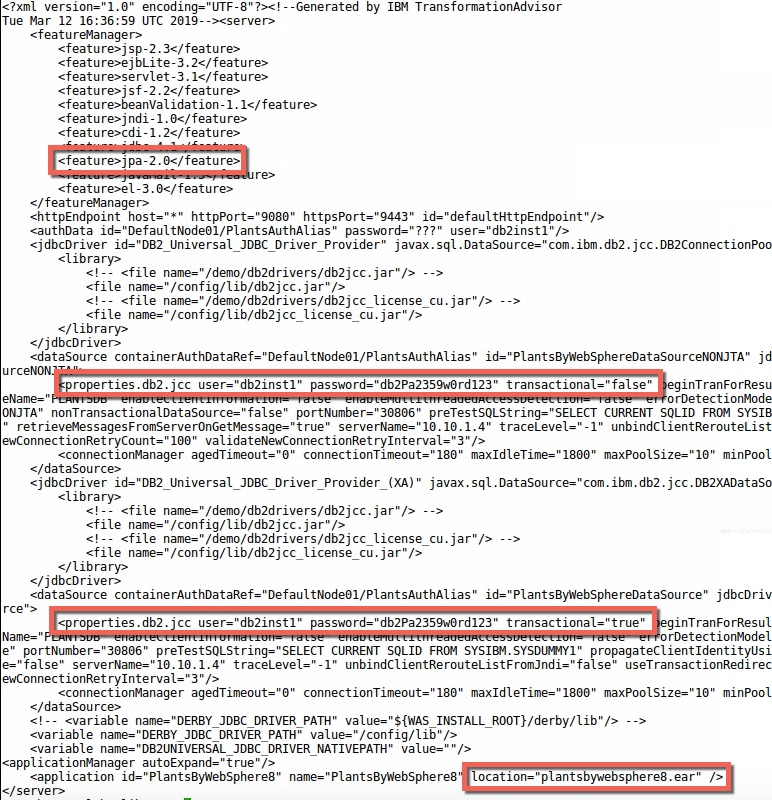
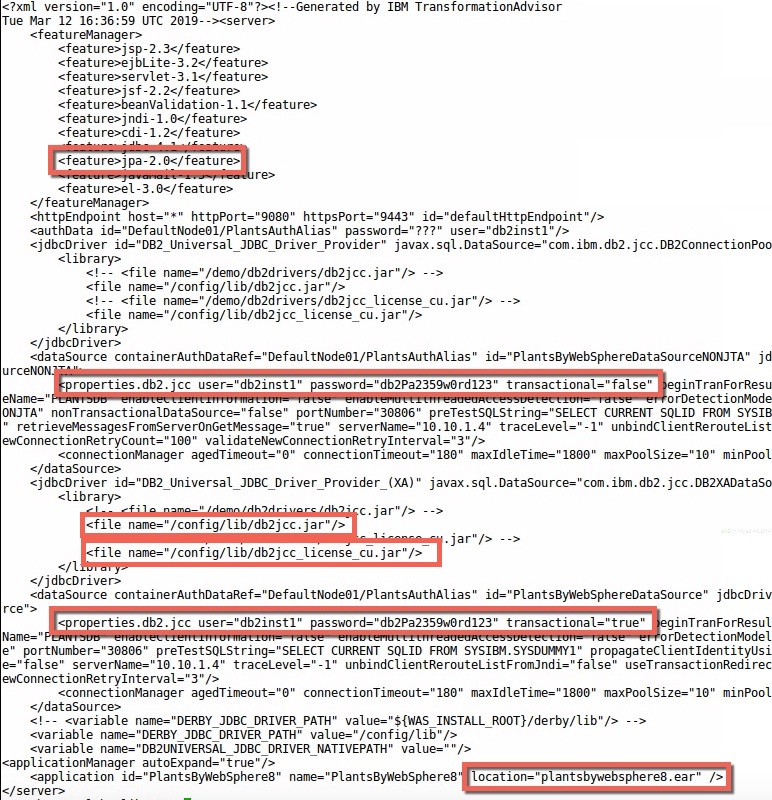
lab4

Changed region(s): [[0.0933, 0.625, 0.5907, 0.7188]]

diff --git a/Labs/Lab4-SimpleAppMod.md b/Labs/Lab4-SimpleAppMod.md
@@ -199,6 +199,8 @@ Transformation Advisor creates many accelerators to speed up the process of migr
 
   * change the `jpa-2.1` feature to `jpa-2.0`
 
+  * change the DB2 driver location file names to be `/config/lib/db2jcc.jar` and `/config/lib/db2jcc_licence_cu.jar`
+
   * add `user="db2inst1" password="db2Pa2359w0rd123" transactional="false"` to the `properties.db2.jcc` line of the `PlantsByWebSphereDataSourceNONJTA` datasource
 
   * add `user="db2inst1" password="db2Pa2359w0rd123" transactional="true"` to the `properties.db2.jcc` line of the `PlantsByWebSphereDataSource` datasource
